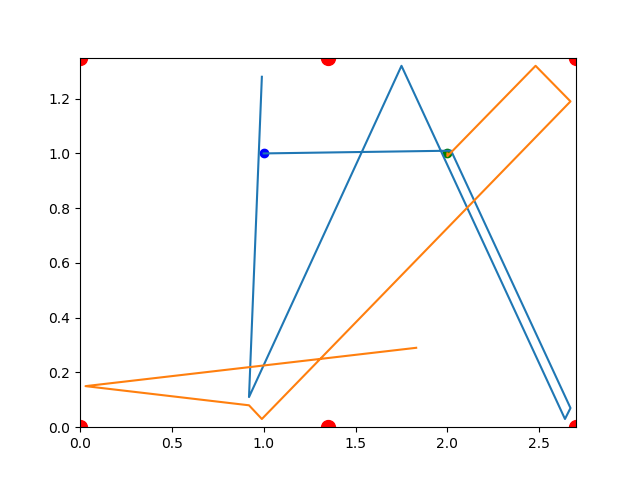
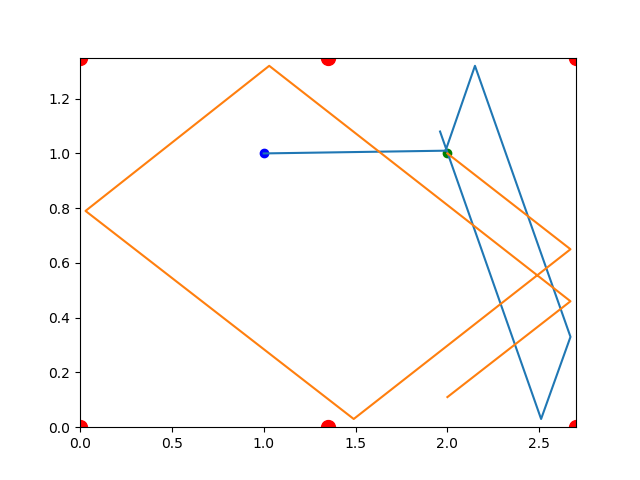
Project 3 FINISHED

diff --git a/fiz3/phproject3.py b/fiz3/phproject3.py
@@ -135,6 +135,8 @@ class LineMovement:
         return self.VNorm / (FRICTION*G)
 
     def getDistance(self, t):
+        if self.VNorm == 0:
+            return 0
         return self.VNorm * t - 0.5*(t**2.0)*FRICTION*G
 
     def getPosition(self, t):
@@ -162,8 +164,15 @@ class Ball:
             right = self.Movement.getStopTime()
         time = (right+left) / 2.0
         dst = normDistance(self.Movement.getPosition(time), other.Movement.getPosition(time))
-        if dst <= MARGIN + 2*BALL_R:
-            return time
+        if dst <= 2*BALL_R + MARGIN :
+            if dst >= 2*BALL_R - MARGIN:
+                return time
+            else:
+                h = -0.001
+                dstprim = (normDistance(self.Movement.getPosition(time+h), other.Movement.getPosition(time+h)) - dst) / h
+                time -= (2*BALL_R - dst) / dstprim
+                # debug = normDistance(self.Movement.getPosition(time), other.Movement.getPosition(time))
+                return time
         if right-left < MARGIN:
             return None
         h = 0.001
@@ -175,7 +184,8 @@ class Ball:
 
     def _getImpulse(self, other):
         normal = numpy.array(self.Movement.Begin) - numpy.array(other.Movement.Begin)
-        normal = normal / ((normal @ normal)**0.5)
+        dst = (normal @ normal)**0.5
+        normal = normal / dst
         dmom = numpy.array(self.Movement.Velocity) * self.Mass - numpy.array(other.Movement.Velocity) * other.Mass
         strength = dmom @ normal
         return normal * strength
@@ -215,7 +225,7 @@ def main(index, fhandle):
     column = tuplify(DATA[index], NAMESIN, NAMESIN)
     draw([column['white'], column['colored']])
     balls = [Ball(column['white'], column['velocity']), Ball(column['colored'])]
-    counter = {'white':0, 'color':0, 'ball':0}
+    counter = {'white':-1, 'color':-1, 'ball':0}
     # loop every bounce
     while balls[0].inside and balls[1].inside:
         tmp = balls[0].loop([balls[1],])
@@ -239,11 +249,11 @@ def main(index, fhandle):
     summary[0] = (round(balls[0].Movement.Begin[0], 2), round(balls[0].Movement.Begin[1], 2)) if balls[0].inside else '(faul)'
     summary[1] = (round(balls[1].Movement.Begin[0], 2), round(balls[1].Movement.Begin[1], 2)) if balls[1].inside else '(score)'
     summary[2] = counter['ball']
-    summary[3] = counter['white'] - 1
-    summary[4] = counter['color'] - 1
+    summary[3] = counter['white']
+    summary[4] = counter['color']
     fhandle.write('{0};{1};{2};{3};{4}\n'.format(*summary))
 
 if __name__=="__main__":
     with open('output.txt', 'w') as f:
-        for i in [2]:#range(0,len(DATA.columns)):
+        for i in range(0,len(DATA.columns)):
             main(i, f)
